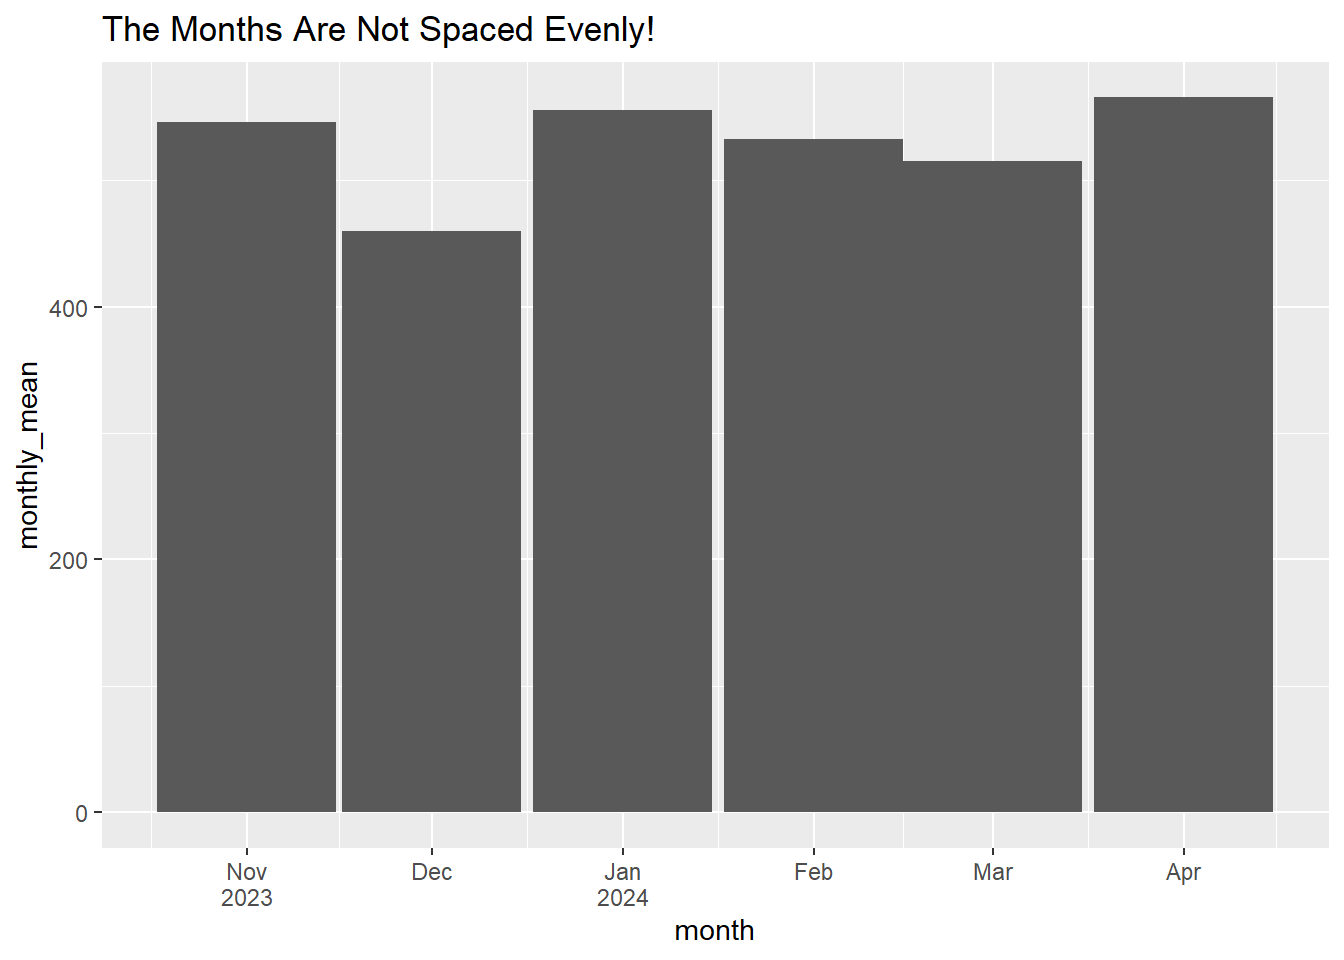
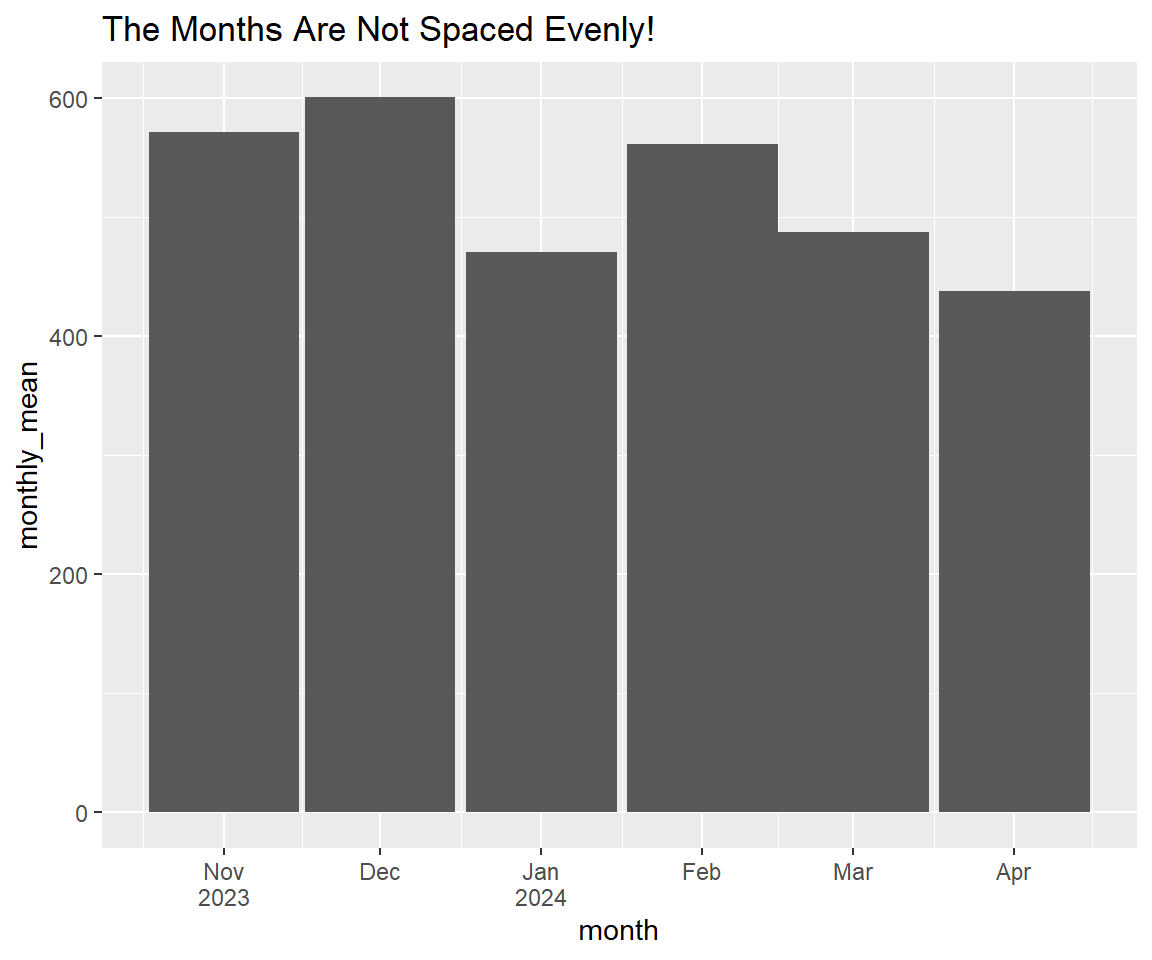
replace svg with png to fix display issue

diff --git a/content/posts/2024-04-28-evenly-spaced-month-charts.html b/content/posts/2024-04-28-evenly-spaced-month-charts.html
@@ -7,7 +7,7 @@ output:
   blogdown::html_page:
     toc: true
     fig_width: 6
-    dev: "svg"
+    dev: "png"
 draft: FALSE
 tags:
   - R
@@ -29,12 +29,12 @@ month_data</code></pre>
 <pre><code>## # A tibble: 6 × 2
 ##   month      monthly_mean
 ##   &lt;date&gt;            &lt;dbl&gt;
-## 1 2023-11-01         588.
-## 2 2023-12-01         473 
-## 3 2024-01-01         475.
-## 4 2024-02-01         405.
-## 5 2024-03-01         570.
-## 6 2024-04-01         417.</code></pre>
+## 1 2023-11-01         572.
+## 2 2023-12-01         601.
+## 3 2024-01-01         471.
+## 4 2024-02-01         562.
+## 5 2024-03-01         487.
+## 6 2024-04-01         438.</code></pre>
 <p>Now let me show you how the distance between the months is not equal.</p>
 <pre class="r"><code>month_data |&gt;
   ggplot(aes(x = month, y = monthly_mean)) +
@@ -42,7 +42,7 @@ month_data</code></pre>
   ggtitle(&quot;The Months Are Not Spaced Evenly!&quot;) +
   # add the year to the first month plotted in each year
   scale_x_date(labels = scales::label_date_short())</code></pre>
-<p><img src="/posts/2024-04-28-evenly-spaced-month-charts_files/figure-html/plot-1.svg" width="576" /></p>
+<p><img src="/posts/2024-04-28-evenly-spaced-month-charts_files/figure-html/plot-1.png" width="576" /></p>
 <p>How frustrating! The fix is not that hard, though. We are going to change the date axis to factors with a neat little trick. We’re going to hack the <code>label_date_short()</code> function to change the dates to text and then change the dates to factors. Here we go.</p>
 <pre class="r"><code># get the label_date_short() function
 prettify_dates &lt;- scales::label_date_short()
@@ -57,15 +57,15 @@ new_month_data</code></pre>
 <pre><code>## # A tibble: 6 × 3
 ##   month      monthly_mean pretty_month
 ##   &lt;date&gt;            &lt;dbl&gt; &lt;fct&gt;       
-## 1 2023-11-01         588. &quot;Nov\n2023&quot; 
-## 2 2023-12-01         473  &quot;Dec&quot;       
-## 3 2024-01-01         475. &quot;Jan\n2024&quot; 
-## 4 2024-02-01         405. &quot;Feb&quot;       
-## 5 2024-03-01         570. &quot;Mar&quot;       
-## 6 2024-04-01         417. &quot;Apr&quot;</code></pre>
+## 1 2023-11-01         572. &quot;Nov\n2023&quot; 
+## 2 2023-12-01         601. &quot;Dec&quot;       
+## 3 2024-01-01         471. &quot;Jan\n2024&quot; 
+## 4 2024-02-01         562. &quot;Feb&quot;       
+## 5 2024-03-01         487. &quot;Mar&quot;       
+## 6 2024-04-01         438. &quot;Apr&quot;</code></pre>
 <p>Now all we have to do is drop the date scale and let <code>geom_col()</code> chose its own width.</p>
 <pre class="r"><code>new_month_data |&gt;
   ggplot(aes(x = pretty_month, y = monthly_mean)) +
   geom_col() +
   ggtitle(&quot;The Spacing Is Even Now!&quot;)</code></pre>
-<p><img src="/posts/2024-04-28-evenly-spaced-month-charts_files/figure-html/better_plot-1.svg" width="576" /></p>
+<p><img src="/posts/2024-04-28-evenly-spaced-month-charts_files/figure-html/better_plot-1.png" width="576" /></p>
